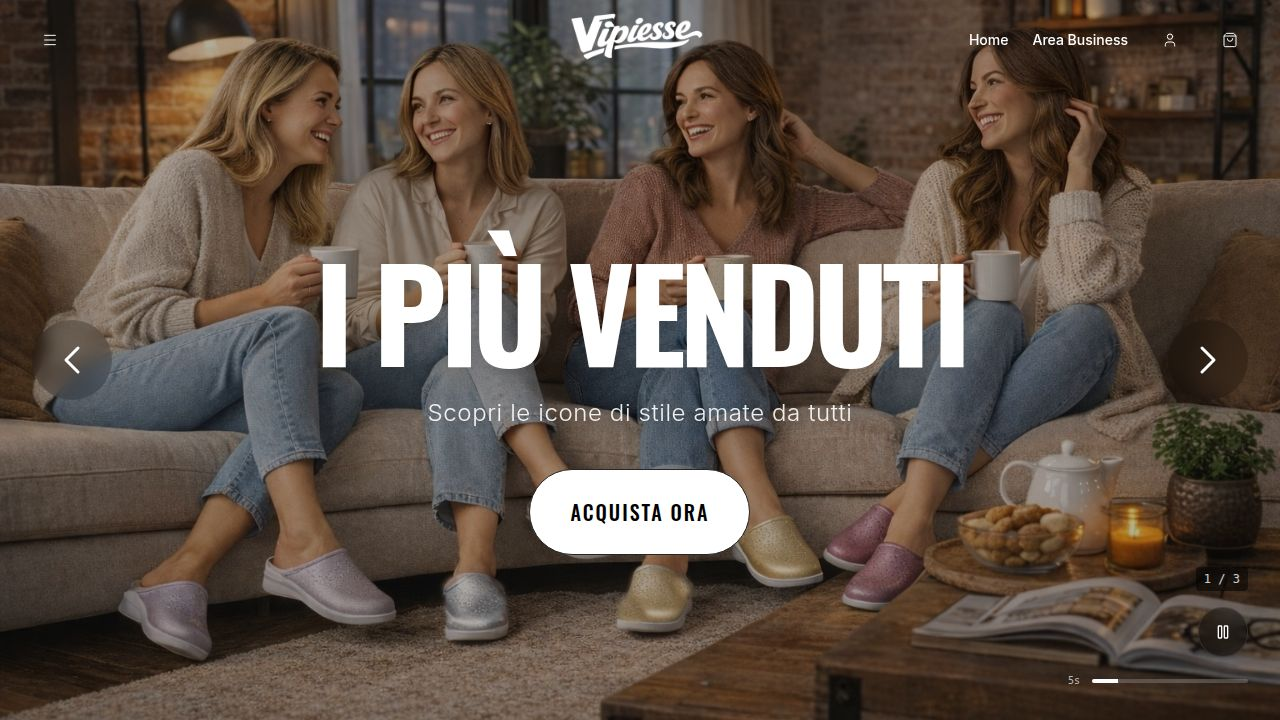
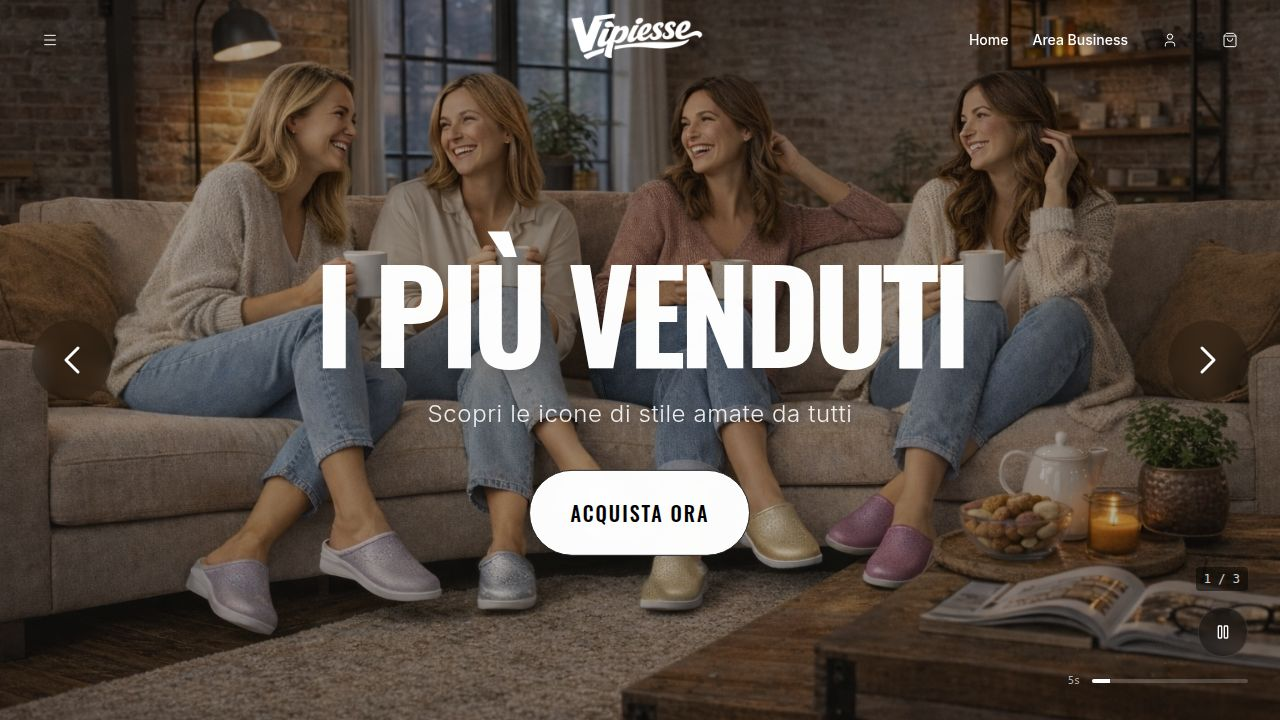
Update hero images with new seasonal and best-selling visuals
Replace existing hero images in the hero-slider component with new assets for "I più venduti" and "Preparati per la stagione".

Replit-Commit-Author: Agent
Replit-Commit-Session-Id: 3792318a-a103-47dd-b3fa-e7a63a9a8252
Replit-Commit-Checkpoint-Type: full_checkpoint
Replit-Commit-Event-Id: db7d5c57-b34b-4623-a692-6b179dd0398a
Replit-Commit-Screenshot-Url: https://storage.googleapis.com/screenshot-production-us-central1/5bd47303-f767-4790-bbba-bfecc5310105/3792318a-a103-47dd-b3fa-e7a63a9a8252/j3YFNli
Replit-Helium-Checkpoint-Created: true

diff --git a/client/src/components/hero-slider.tsx b/client/src/components/hero-slider.tsx
@@ -5,8 +5,8 @@ import { Link } from "wouter";
 import { Button } from "@/components/ui/button";
 
 // Import generated hero images
-import bestSellerHero from '@assets/WhatsApp_Image_2026-01-12_at_09.02.47_1768217512987.jpeg';
-import summerHero from '@assets/image_1768243178464.png';
+import bestSellerHero from '@assets/image_1768383078176.png';
+import summerHero from '@assets/image_1768383084511.png';
 import outletHero from '@assets/generated_images/outlet_sale_hero.png';
 
 export interface HeroSlide {
